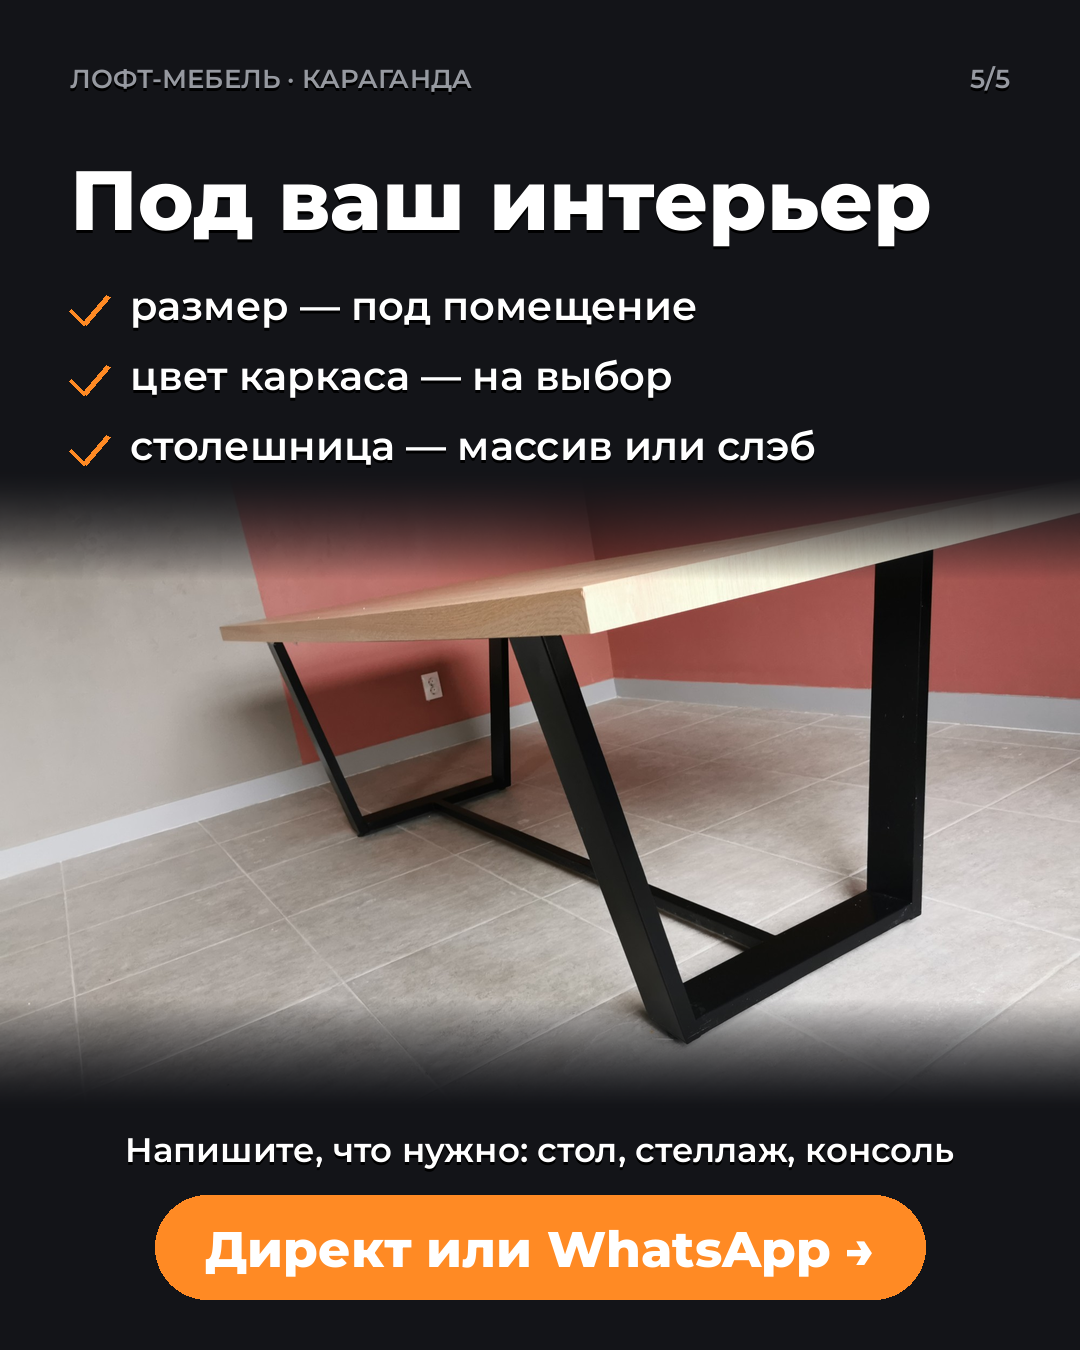
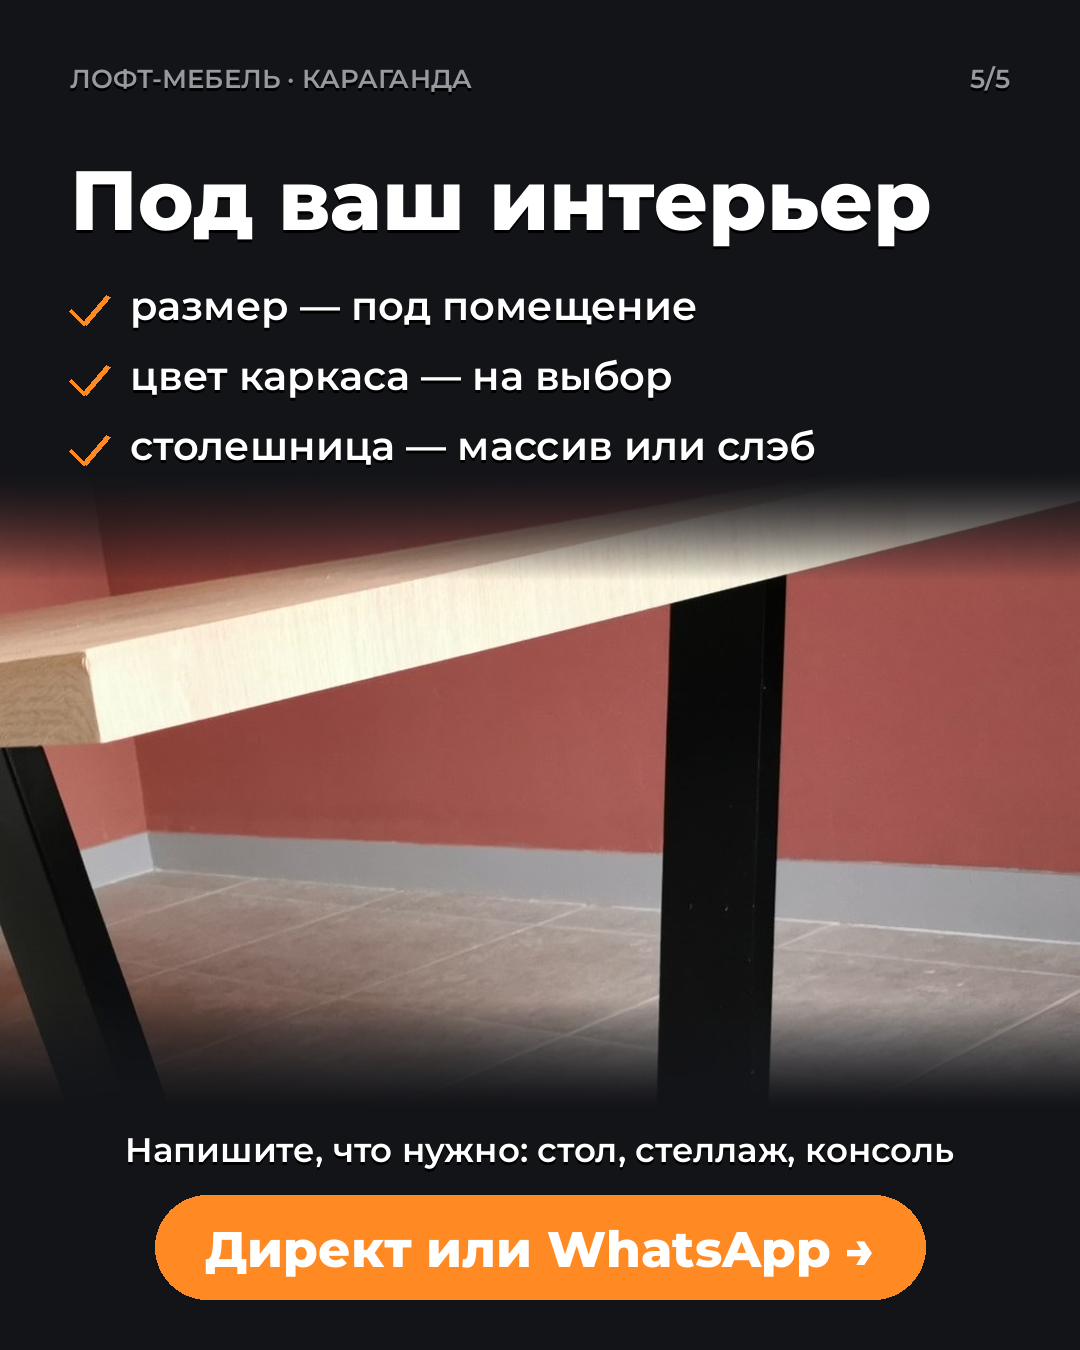
Loft creatives: vary crops of the real photo, add full preview sheet
Claude-Session: https://claude.ai/code/session_01WpjTYCbrJZsAU7gXfc5YbY

diff --git a/tools/creatives/render_loft.py b/tools/creatives/render_loft.py
@@ -121,6 +121,9 @@ def dark(w, h):
 
 
 REAL = "real-table.jpg"  # фото реального стола заказчика
+# крупные кадры из того же фото, чтобы слайды не повторялись
+REAL_LEG = "real-leg.jpg"
+REAL_CORNER = "real-corner.jpg"
 
 
 # ---------- Instagram 1080×1350 ----------
@@ -199,7 +202,7 @@ def ig4():
 
 def ig5():
     img, d = dark(1080, 1350)
-    band(img, REAL, 470, 640, (0.62, 0.55), fade=110)
+    band(img, REAL_LEG, 470, 640, (0.5, 0.4), fade=110)
     header(d, 1080, "5/5")
     text(d, (M, 230), "Под ваш интерьер", font("ExtraBold", 84), WHITE, "ls")
     for i, line in enumerate(["размер — под помещение", "цвет каркаса — на выбор", "столешница — массив или слэб"]):
@@ -240,7 +243,7 @@ def wa2():
 
 def wa3():
     img, d = dark(1080, 1920)
-    band(img, REAL, 520, 860, (0.58, 0.5))
+    band(img, REAL_CORNER, 520, 860, (0.5, 0.55))
     header(d, 1080)
     text(d, (540, 370), "Сделаем", font("ExtraBold", 120), WHITE, "ms")
     text(d, (540, 470), "под ваш размер", font("ExtraBold", 92), ORANGE, "ms")
